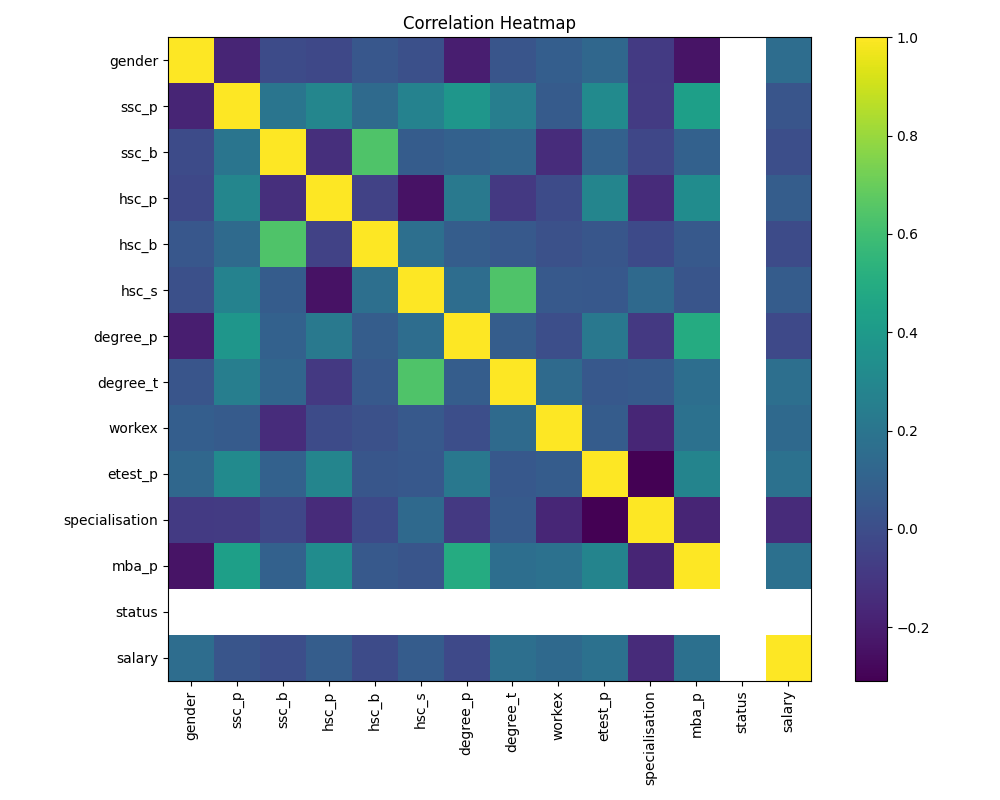
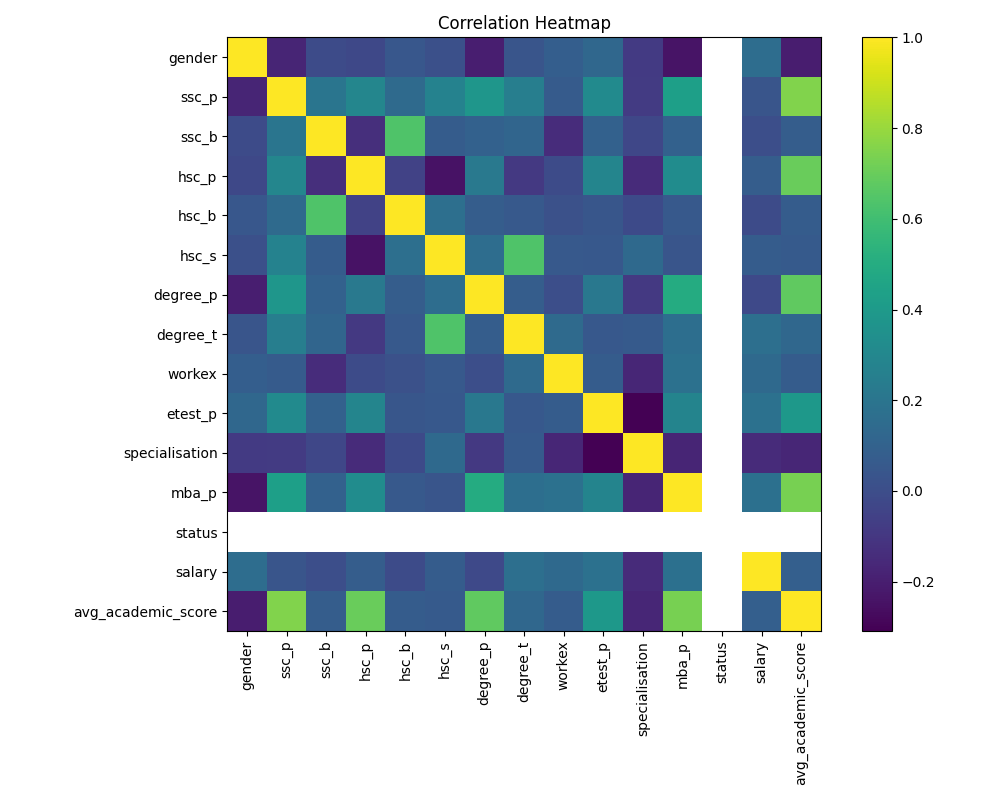
Add model comparison, feature engineering, and feasibility analysis

diff --git a/notebooks/analysis.py b/notebooks/analysis.py
@@ -6,6 +6,7 @@ from sklearn.model_selection import train_test_split
 from sklearn.linear_model import LinearRegression
 from sklearn.metrics import mean_absolute_error, r2_score
 from sklearn.preprocessing import LabelEncoder
+from sklearn.ensemble import RandomForestRegressor
 
 
 # =========================
@@ -37,6 +38,20 @@ for col in cat_cols:
     df_placed[col] = le.fit_transform(df_placed[col])
 
 print("Cleaned Dataset Shape:", df_placed.shape)
+
+
+
+# -------------------------
+# Feature Engineering (Minimal)
+# -------------------------
+
+df_placed["avg_academic_score"] = (
+    df_placed["ssc_p"] +
+    df_placed["hsc_p"] +
+    df_placed["degree_p"] +
+    df_placed["mba_p"]
+) / 4
+
 
 
 # =========================
@@ -94,7 +109,7 @@ plt.close()
 
 
 # =========================
-# Machine Learning Model
+# Machine Learning Models
 # =========================
 
 X = df_placed.drop(columns=["salary", "status"])
@@ -104,14 +119,26 @@ X_train, X_test, y_train, y_test = train_test_split(
     X, y, test_size=0.2, random_state=42
 )
 
-model = LinearRegression()
-model.fit(X_train, y_train)
+# ---- Linear Regression (Baseline)
+lr_model = LinearRegression()
+lr_model.fit(X_train, y_train)
+lr_pred = lr_model.predict(X_test)
 
-y_pred = model.predict(X_test)
+lr_mae = mean_absolute_error(y_test, lr_pred)
+lr_r2 = r2_score(y_test, lr_pred)
 
-mae = mean_absolute_error(y_test, y_pred)
-r2 = r2_score(y_test, y_pred)
+# ---- Random Forest Regressor (Non-linear)
+rf_model = RandomForestRegressor(
+    n_estimators=100,
+    random_state=42
+)
+rf_model.fit(X_train, y_train)
+rf_pred = rf_model.predict(X_test)
 
-print("\nModel Evaluation:")
-print("Mean Absolute Error (MAE):", mae)
-print("R² Score:", r2)
+rf_mae = mean_absolute_error(y_test, rf_pred)
+rf_r2 = r2_score(y_test, rf_pred)
+
+print("\nModel Comparison:")
+print(f"Linear Regression  | MAE: {lr_mae:.2f} | R²: {lr_r2:.2f}")
+print(f"Random Forest     | MAE: {rf_mae:.2f} | R²: {rf_r2:.2f}")
+

diff --git a/README.md b/README.md
@@ -1,39 +1,101 @@
-# Campus Placement Analytics & Salary Forecasting
+# Campus Placement Analytics & Salary Prediction Feasibility Study
+
+## Overview
+This project analyzes campus placement data to understand factors influencing placement outcomes and salary offers. It also evaluates the feasibility of predicting salary using academic and profile-based features through exploratory data analysis and basic machine learning models.
+
+The goal of this project is not to achieve high prediction accuracy, but to understand patterns, limitations, and real-world complexity in campus placement salary data.
+
+---
 
 ## Problem Statement
-This project analyzes campus placement data to understand factors influencing placement outcomes and salary, and builds a basic machine learning model to predict salary for placed students.
+Colleges and students are interested in understanding how academic performance, specialization, and work experience influence placement outcomes and salary. Using historical placement data, this project explores these relationships and assesses whether salary prediction is feasible using available features.
+
+---
 
 ## Dataset
-The dataset contains academic performance, work experience, specialization, placement status, and salary information of students. Salary data is available only for placed students.
+The dataset contains records of students with the following information:
+- Academic performance (SSC, HSC, Degree, MBA percentages)
+- Educational background and specialization
+- Work experience
+- Placement status
+- Salary (available only for placed students)
 
-## Tools Used
-- Python
-- Pandas
-- NumPy
-- Matplotlib
-- Scikit-learn
+**Note:** Salary values are missing for unplaced students.
+
+---
 
 ## Approach
-- Filtered placed students for salary analysis
-- Cleaned missing values and encoded categorical variables
-- Performed exploratory data analysis to identify trends
-- Built a Linear Regression model to predict salary
-- Evaluated the model using MAE and R² score
 
-## Key Insights
-- Work experience generally leads to higher salary outcomes
-- Academic scores show limited correlation with salary
-- Salary distribution is skewed with a few high-paying offers
-- Salary prediction is influenced by multiple external factors
+### Data Preparation
+- Filtered only placed students for salary analysis
+- Removed rows with missing salary values
+- Dropped non-informative ID column
+- Encoded categorical variables using label encoding
+- Performed minimal cleaning to preserve real-world data characteristics
 
-## Model Performance
-- Mean Absolute Error (MAE): ~₹67,000
-- R² Score: Negative, indicating limited predictive power with available features
+### Feature Engineering
+- Created a simple engineered feature:
+  - `avg_academic_score`: Average of SSC, HSC, Degree, and MBA percentages
+
+---
+
+## Exploratory Data Analysis (EDA)
+The following analyses were performed:
+- Salary distribution analysis
+- Work experience vs salary comparison
+- Academic performance vs salary relationships
+- Correlation heatmap of features
+
+### Key Observations
+- Salary distribution is right-skewed with a few high-paying outliers
+- Work experience generally improves salary outcomes but does not guarantee higher pay
+- Academic scores show weak correlation with salary
+- No single feature strongly explains salary variation
+
+---
+
+## Machine Learning Models
+
+### Models Evaluated
+- **Linear Regression** (Baseline model)
+- **Random Forest Regressor** (Non-linear model)
+
+### Evaluation Metrics
+- Mean Absolute Error (MAE)
+- R² Score
+
+### Model Comparison
+
+| Model | MAE (₹) | R² |
+|------|--------|----|
+| Linear Regression | ~67,000 | -0.18 |
+| Random Forest Regressor | ~81,000 | -0.50 |
+
+---
+
+## Model Comparison and Interpretation
+The non-linear Random Forest model did not outperform the linear baseline. This indicates that salary outcomes are not strongly captured by linear or non-linear interactions within the available academic and profile features.
+
+---
+
+## Why Salary Prediction Is Challenging
+- Salary is influenced by company-specific, role-based, and market factors not present in the dataset
+- Academic and profile features alone have weak relationships with salary
+- High variance and skewed salary distribution reduce predictive performance
+- Important factors such as interview performance, company brand, and negotiation are unavailable
+
+---
 
 ## Conclusion
-The results reflect real-world placement scenarios where salary is influenced by factors beyond academic performance. The model is suitable for understanding trends rather than making precise predictions.
+This project demonstrates that while campus placement data is useful for understanding general trends, salary prediction using academic-only features has limited feasibility. The analysis highlights the importance of domain understanding, honest evaluation, and interpreting model limitations in real-world data science problems.
 
-## How to Run
-1. Install dependencies from `requirements.txt`
-2. Navigate to the `notebooks` folder
-3. Run `python analysis.py`
+---
+
+## Technology Stack
+- **Language:** Python
+- **Libraries:** Pandas, NumPy, Matplotlib, Scikit-learn
+- **Tools:** VS Code, Command Prompt, Git, GitHub
+
+---
+
+## Project Structure
